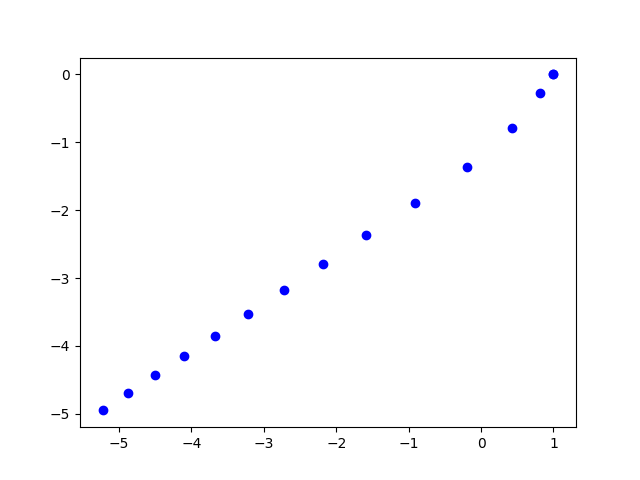
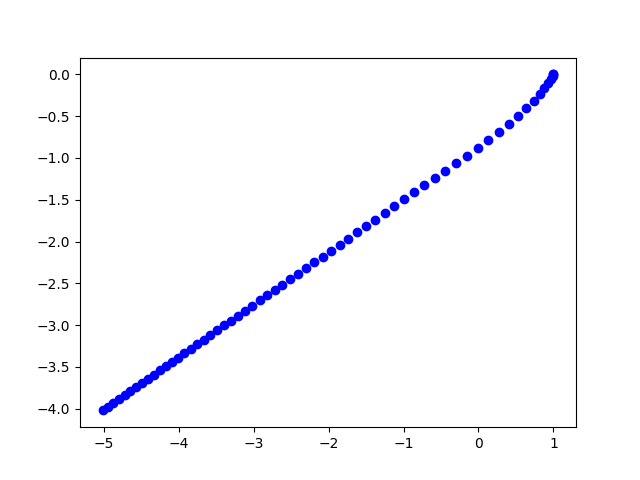
Add obstacles and the boundaries as the classes

diff --git a/pole.py b/pole.py
@@ -1,9 +1,29 @@
 import numpy as np
 import matplotlib.pyplot as plt
+
+class Environment:
+    def __init__(self, borders, origin):
+        self.borders = borders
+        self.origin = origin
+    def out_of_bounds(self,pos):
+        return(self.borders[0,0]>pos[0] \
+                    or self.borders[0,1]<pos[0] \
+                    or self.borders[1,0]>pos[1] \
+                    or self.borders[1,1]<pos[1])
 pole_borders = np.array([[-5,5],[-5,5]], dtype=np.single)
 origin = [0,0]
 
-def mountain(pos,center,magnitude):
+class Obstacle:
+    def __init__(self,equation,params,name):
+        self.equation = equation
+        self.params = params
+        self.name = name
+    def evaluate(self,pos):
+        return(self.equation(pos,self.params))
+
+def mountain(pos,params):
+    center = params[0]
+    magnitude = params[1]
     diff = pos-center
     if not diff.any():
         return np.array([0,0])
@@ -11,14 +31,11 @@ def mountain(pos,center,magnitude):
         distance = np.linalg.norm(diff)
         return np.exp(-distance**2)*magnitude*diff/distance
 
+pole1 = Obstacle(mountain,[np.array([1,1]),5],"first_mountain")
+pole2 = Obstacle(mountain,[np.array([2,-1]),8],"second_mountain")
+
 def pole_equation(poles,point):
-    return sum([pole(point) for pole in poles])
-
-def pole1(point):
-    return mountain(point,np.array([1,1]),5)
-
-def pole2(point):
-    return mountain(point,np.array([2,-1]),8)
+    return sum([pole.evaluate(point) for pole in poles])
 
 poles = [pole1,pole2]
 
@@ -30,22 +47,19 @@ def dynamics(poles,pos,speed,dt=1/4,resistance=1/16):
     pos_next = pos + dt * speed
     return pos_next,speed_next
 
-def stop_condition(pole_borders,pos,speed,time):
-    out_of_bounds=  pole_borders[0,0]>pos[0] \
-                    or pole_borders[0,1]<pos[0] \
-                    or pole_borders[1,0]>pos[1] \
-                    or pole_borders[1,1]<pos[1]
+def stop_condition(environment,pos,speed,time):
+    out_of_bounds=  environment.out_of_bounds(pos)
     timeout = time > 16
     no_speed = np.linalg.norm(speed) < 1/16 and time > 1
     return(no_speed or timeout or out_of_bounds)
 
 
-def path_simulation(poles,origin,dt=1/4,resistance=1/16):
+def path_simulation(poles,environment,origin,dt=1/4,resistance=1/16):
     time = 0
     pos = origin
     hist_pos = pos
     speed = np.array([0,0])
-    while (not(stop_condition(pole_borders,pos,speed,time))):
+    while (not(stop_condition(environment,pos,speed,time))):
         pos, speed = \
             dynamics(poles,pos,speed,dt=dt,resistance=resistance)
         time += dt
@@ -55,6 +69,9 @@ def path_simulation(poles,origin,dt=1/4,resistance=1/16):
                  Thank you for the participation!".format(time,pos[0],pos[1],np.linalg.norm(speed)))
     plt.plot(hist_pos[:,0],hist_pos[:,1], 'bo')
     plt.savefig('foo.png')
-results = path_simulation(poles,np.array([1,0]),dt=1/2, resistance = 1/8)
+
+environment = Environment(pole_borders,origin)
+
+results = path_simulation(poles,environment,np.array([1,0]),dt=1/8, resistance = 1/8)
 
 
